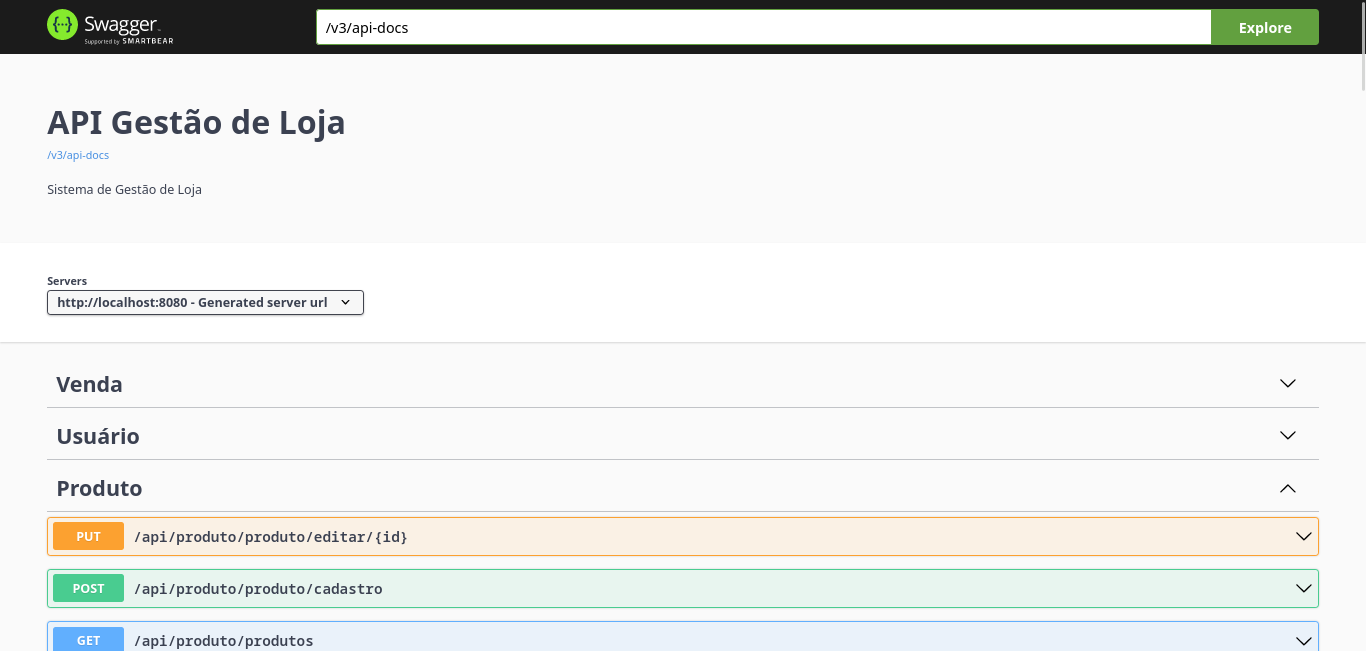
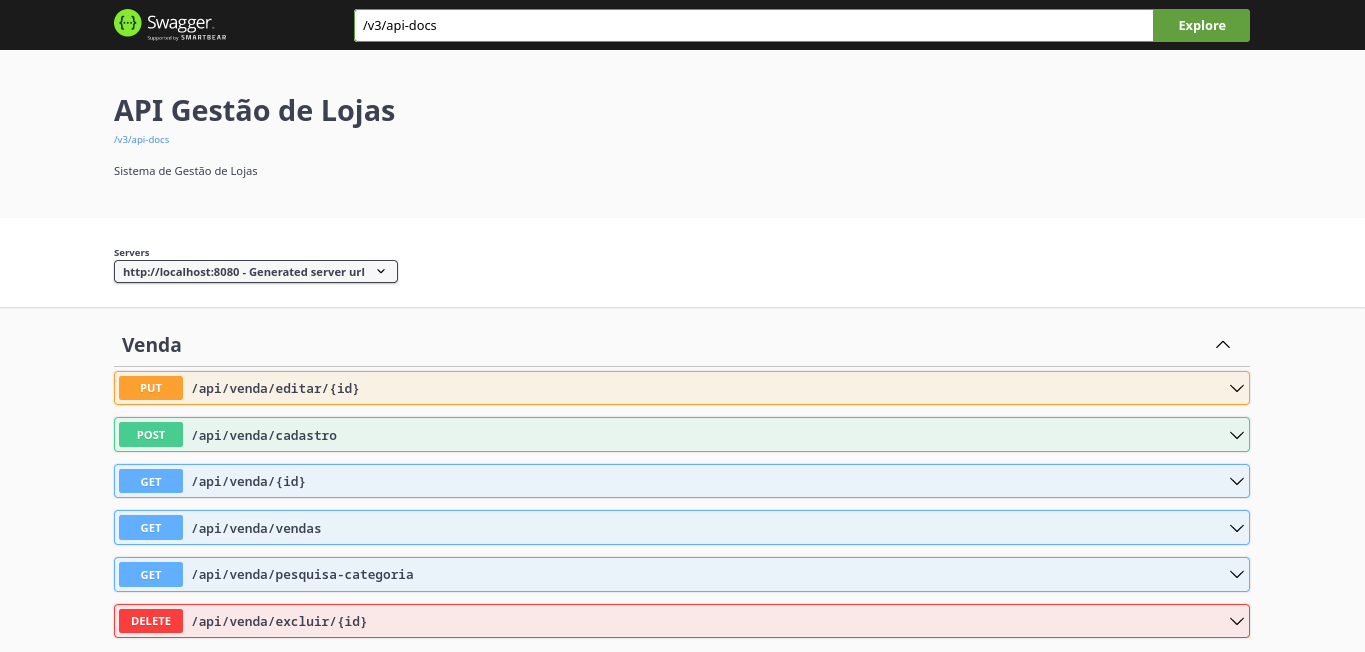
Atualização de arquivos

diff --git a/src/main/java/loja/controller/api/ApiController.java b/src/main/java/loja/controller/api/ApiController.java
@@ -5,7 +5,7 @@ import io.swagger.v3.oas.annotations.info.Info;
 import org.springframework.web.bind.annotation.RestController;
 
 @RestController
-@OpenAPIDefinition(info=@Info(title="API Gestão de Loja", description = "Sistema de Gestão de Loja"))
+@OpenAPIDefinition(info=@Info(title="API Gestão de Lojas", description = "Sistema de Gestão de Lojas"))
 public class ApiController {
 
 }

diff --git a/src/main/java/loja/controller/ProdutoController.java b/src/main/java/loja/controller/ProdutoController.java
@@ -3,7 +3,6 @@ package loja.controller;
 import loja.model.Categoria;
 import loja.model.Fornecedor;
 import loja.model.Produto;
-import loja.model.Venda;
 import loja.service.CategoriaService;
 import loja.service.FornecedorService;
 import loja.service.ProdutoService;
